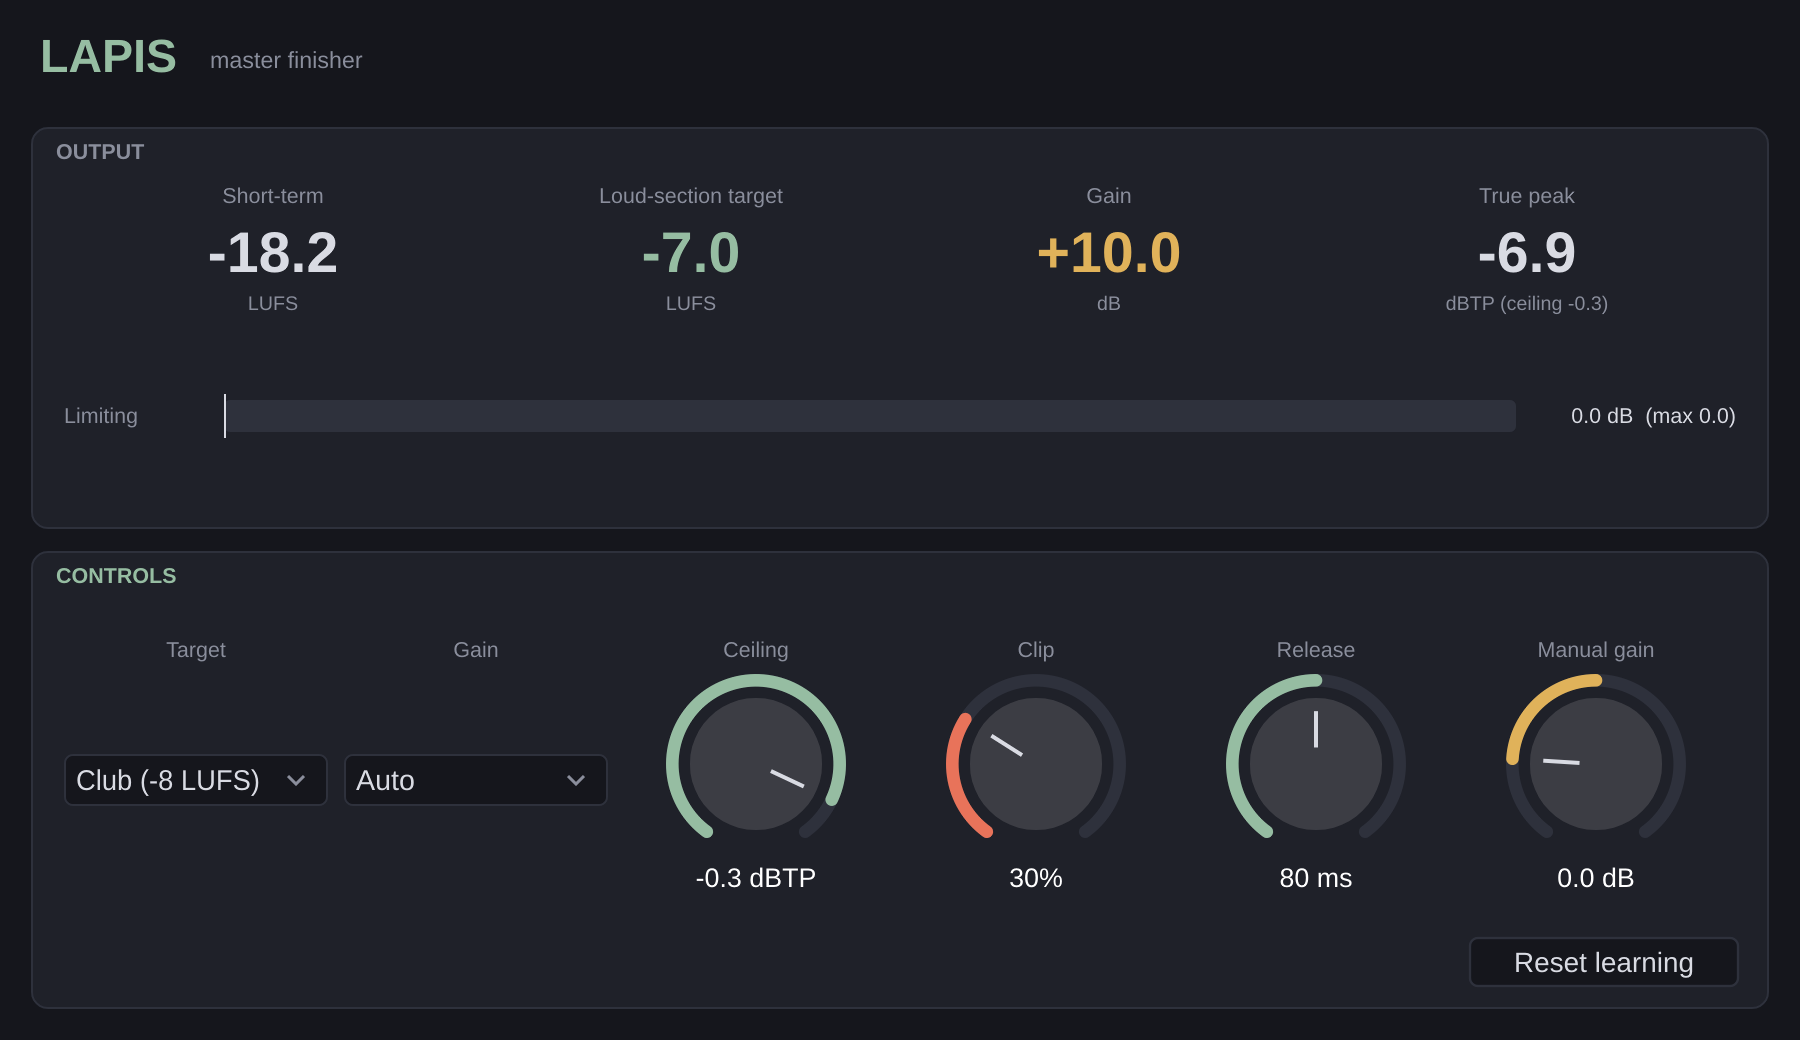
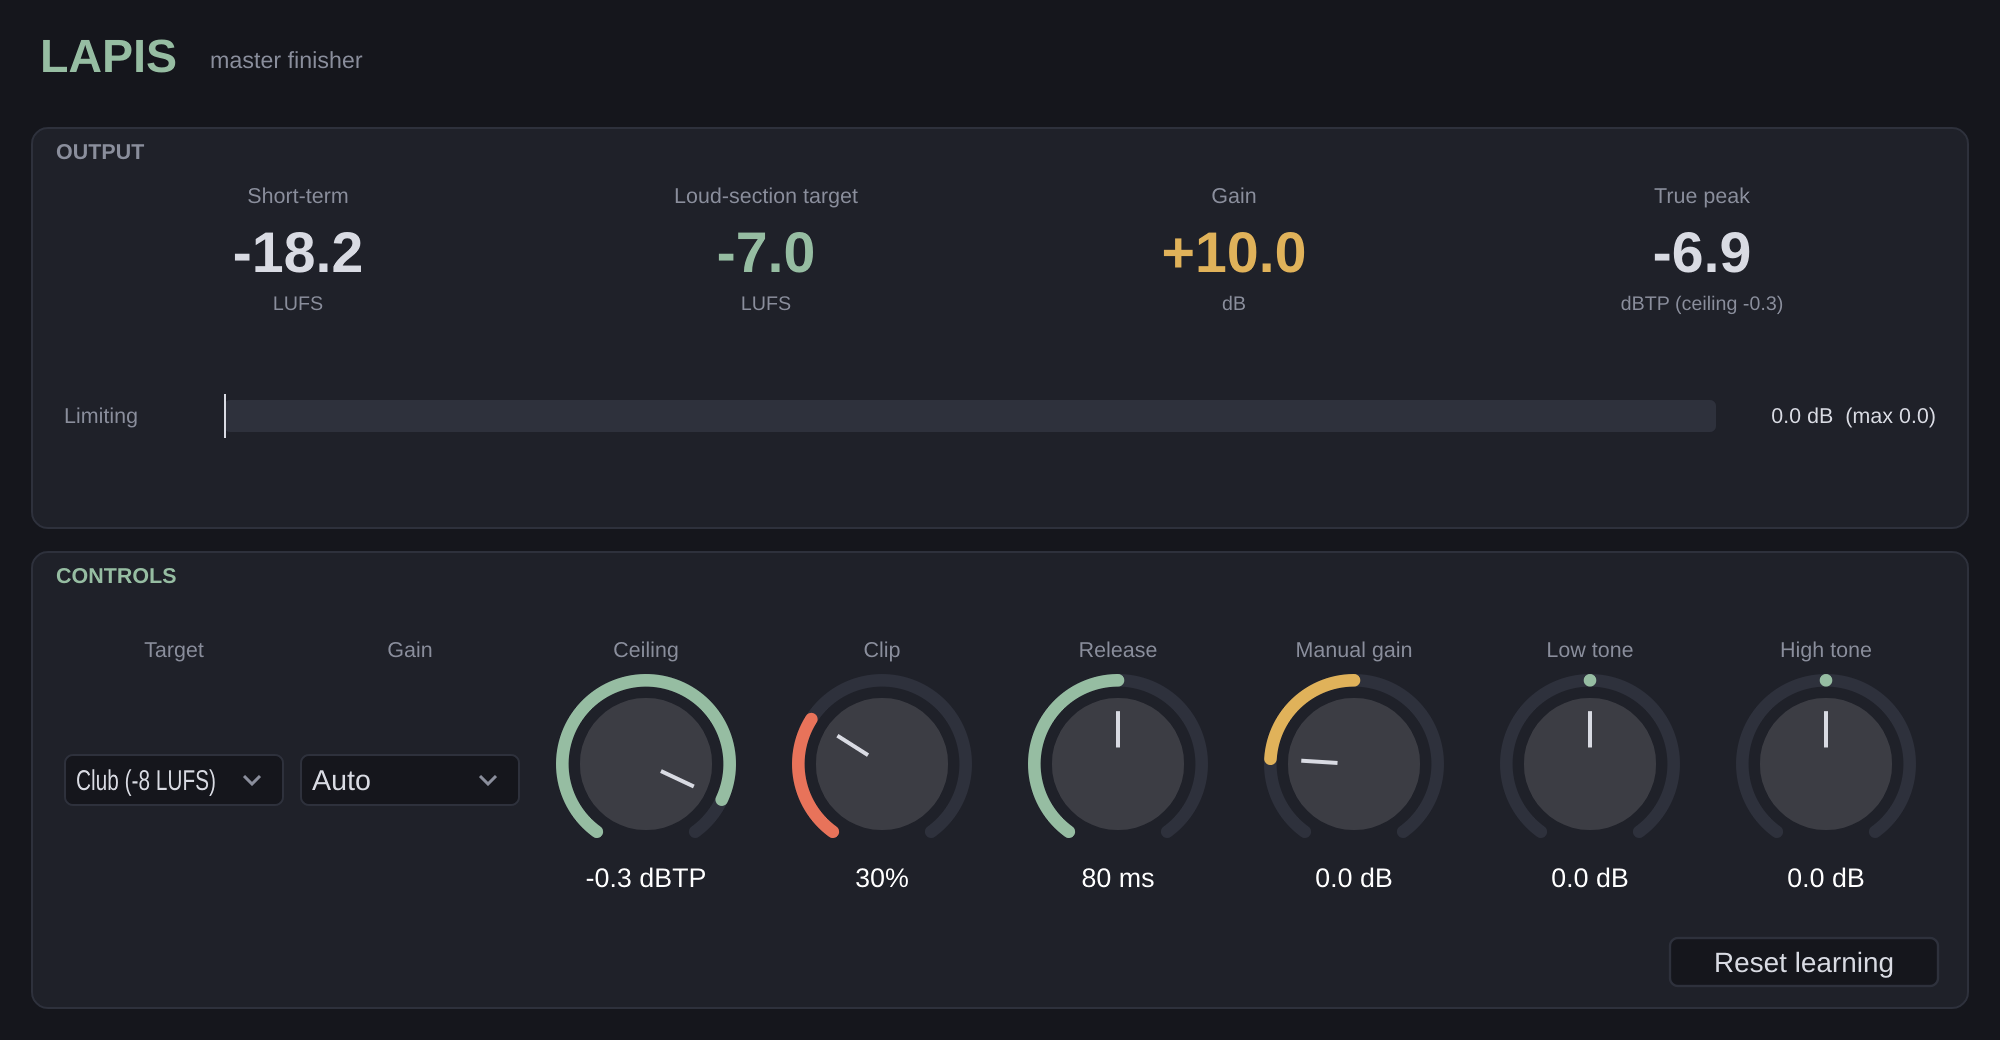
Reference match: gentle tone and loudness match to the reference
Mentalism's Match reference compares the mix's long-term balance with the
loaded reference and sends half the difference below ~150 Hz and above
~6 kHz (at most 4 dB) to Lapis, which gains Low tone / High tone shelves;
it also sets the loudness target to the reference. Fix messages can now
carry data; it's in History to undo.

Claude-Session: https://claude.ai/code/session_01EWJNqEa1W7PthaDHKK8sn4

diff --git a/plugins/Lapis/Source/PluginProcessor.cpp b/plugins/Lapis/Source/PluginProcessor.cpp
@@ -23,6 +23,8 @@ namespace
         rel.setSkewForCentre (80.0f);
         l.add (std::make_unique<AudioParameterFloat> (ParameterID { LapisProcessor::releaseId, 1 }, "Release", rel, 80.0f,
                                                       Attr().withStringFromValueFunction ([] (float v, int) { return String (roundToInt (v)) + " ms"; })));
+        l.add (std::make_unique<AudioParameterFloat> (ParameterID { LapisProcessor::toneLowId, 1 }, "Low Tone", NormalisableRange<float> (-6.0f, 6.0f), 0.0f, db));
+        l.add (std::make_unique<AudioParameterFloat> (ParameterID { LapisProcessor::toneHighId, 1 }, "High Tone", NormalisableRange<float> (-6.0f, 6.0f), 0.0f, db));
         l.add (std::make_unique<AudioParameterFloat> (ParameterID { LapisProcessor::manualGainId, 1 }, "Manual Gain",
                                                       NormalisableRange<float> (-6.0f, 24.0f), 0.0f, db));
         return l;
@@ -35,6 +37,15 @@ LapisProcessor::LapisProcessor()
                           .withOutput ("Output", juce::AudioChannelSet::stereo(), true)),
       apvts (*this, nullptr, "LapisState", layout())
 {
+    // Mentalism's "Match reference": nudge the tone shelves by the amounts it sends.
+    fixes = std::make_unique<suite::FixReceiver> (apvts, [this] (suite::Fix fix, uint32_t data) -> std::vector<suite::FixReceiver::Change>
+    {
+        if (fix != suite::Fix::ReferenceTone) return {};
+        float lowDb = 0.0f, highDb = 0.0f;
+        suite::unpackTone (data, lowDb, highDb);
+        const auto low = value (toneLowId), high = value (toneHighId);
+        return { { toneLowId, juce::jlimit (-6.0f, 6.0f, low + lowDb) }, { toneHighId, juce::jlimit (-6.0f, 6.0f, high + highDb) } };
+    });
 }
 
 bool LapisProcessor::isBusesLayoutSupported (const BusesLayout& layouts) const
@@ -47,6 +58,8 @@ void LapisProcessor::prepareToPlay (double newSampleRate, int)
 {
     sampleRate = newSampleRate;
     limiter.prepare (sampleRate);
+    for (auto* f : { &lowShelf[0], &lowShelf[1], &highShelf[0], &highShelf[1] }) f->reset();
+    shownLow = shownHigh = 1000.0f;   // recalculate the shelves for this sample rate
     setLatencySamples (limiter.getLatency());
     loudness.prepare (sampleRate);
     outputPeak.reset();
@@ -89,6 +102,16 @@ void LapisProcessor::processBlock (juce::AudioBuffer<float>& buffer, juce::MidiB
     const auto clip = value (clipId);
     const auto clipThreshold = ceiling;
 
+    // Tone shelves (only recalculated when they change; bypassed at 0 dB).
+    const auto toneLow = value (toneLowId), toneHigh = value (toneHighId);
+    if (std::abs (toneLow - shownLow) > 1.0e-3f || std::abs (toneHigh - shownHigh) > 1.0e-3f)
+    {
+        for (auto& f : lowShelf) f.setLowShelf (100.0f, toneLow, (float) sampleRate);
+        for (auto& f : highShelf) f.setHighShelf (8000.0f, toneHigh, (float) sampleRate);
+        shownLow = toneLow; shownHigh = toneHigh;
+    }
+    const auto toneOn = std::abs (toneLow) > 0.01f || std::abs (toneHigh) > 0.01f;
+
     auto* L = buffer.getWritePointer (0);
     auto* R = buffer.getWritePointer (1);
     float maxGr = 0.0f;
@@ -99,6 +122,11 @@ void LapisProcessor::processBlock (juce::AudioBuffer<float>& buffer, juce::MidiB
         appliedGainDb += 0.0005f * (wantedGainDb - appliedGainDb);
         const auto g = juce::Decibels::decibelsToGain (appliedGainDb);
         auto l = L[n] * g, r = R[n] * g;
+        if (toneOn)
+        {
+            l = highShelf[0].process (lowShelf[0].process (l));
+            r = highShelf[1].process (lowShelf[1].process (r));
+        }
 
         // Soft clipper: shaves the sharpest peaks so the limiter works less hard.
         if (clip > 0.0f)

diff --git a/plugins/Mentalism/Source/PluginEditor.cpp b/plugins/Mentalism/Source/PluginEditor.cpp
@@ -163,6 +163,17 @@ MentalismEditor::MentalismEditor (MentalismProcessor& p)
         juce::CallOutBox::launchAsynchronously (std::make_unique<ChecklistPanel> (processor), checklistButton.getScreenBounds(), nullptr);
     };
     addAndMakeVisible (checklistButton);
+    matchButton.setTooltip ("Moves Lapis' low and high tone half-way towards the reference (at most 4 dB) and sets the loudness "
+                            "target to match it. Undo it in History.");
+    matchButton.onClick = [this]
+    {
+        matchSeq = processor.matchReference();
+        const auto l = processor.lastMatchLow.load(), h = processor.lastMatchHigh.load();
+        auto fmt = [] (float v) { return (v >= 0.0f ? "+" : "") + juce::String (v, 1); };
+        matchButton.setButtonText (matchSeq != 0 ? "Matched: low " + fmt (l) + ", high " + fmt (h) + " dB"
+                                   : processor.getReference().valid ? juce::String ("Tone already close; loudness matched")
+                                                                    : juce::String ("Load a reference first"));
+    };
     roughStatus.setFont (juce::FontOptions (12.0f));
     roughStatus.setJustificationType (juce::Justification::centredRight);
     for (auto* c : std::initializer_list<juce::Component*> { &roughMixButton, &roughUndoButton, &roughStatus })
@@ -183,12 +194,12 @@ MentalismEditor::MentalismEditor (MentalismProcessor& p)
     referenceLabel.setFont (juce::FontOptions (12.0f));
     referenceLabel.setJustificationType (juce::Justification::centredLeft);
 
-    for (auto* c : std::initializer_list<juce::Component*> { &loudTarget, &tonalTarget, &resetButton, &loadButton, &referenceLabel, &balanceTabs })
+    for (auto* c : std::initializer_list<juce::Component*> { &loudTarget, &tonalTarget, &resetButton, &loadButton, &referenceLabel, &balanceTabs, &matchButton })
         addAndMakeVisible (c);
     balanceTabs.setComponentID ("tabs");
     balanceTabs.onChange = [this] (int i)
     {
-        for (auto* c : std::initializer_list<juce::Component*> { &tonalTarget, &loadButton, &referenceLabel })
+        for (auto* c : std::initializer_list<juce::Component*> { &tonalTarget, &loadButton, &referenceLabel, &matchButton })
             c->setVisible (i == 0);
         undoFixButton.setVisible (i == 1);
         fixStatus.setVisible (i == 1);
@@ -598,6 +609,7 @@ void MentalismEditor::resized()
     auto controls = b.removeFromTop (54);
     tonalTarget.setBounds (controls.removeFromLeft (220));
     loadButton.setBounds (controls.removeFromLeft (150).withTrimmedTop (18).reduced (4, 2));
+    matchButton.setBounds (controls.removeFromLeft (230).withTrimmedTop (18).reduced (4, 2));
     referenceLabel.setBounds (controls.withTrimmedTop (18).withTrimmedLeft (8));
     b.removeFromTop (6);
     balanceContent = b;

diff --git a/shared/FixBus.h b/shared/FixBus.h
@@ -14,12 +14,25 @@
 
 namespace suite
 {
-    enum class Fix : uint8_t { None = 0, BreakdownQuieter, BreakdownLouder, BuildRise, IntroQuieter, LaterDropBigger, RoughMix, DjIntroOutro };
+    enum class Fix : uint8_t { None = 0, BreakdownQuieter, BreakdownLouder, BuildRise, IntroQuieter, LaterDropBigger, RoughMix, DjIntroOutro, ReferenceTone };
+
+    /** ReferenceTone carries two signed amounts in quarter dB (low shelf, high shelf). */
+    inline uint32_t packTone (float lowDb, float highDb) noexcept
+    {
+        auto q = [] (float db) { return (uint32_t) (uint8_t) (int8_t) juce::jlimit (-127, 127, (int) std::lround (db * 4.0f)); };
+        return (q (lowDb) << 8) | q (highDb);
+    }
+    inline void unpackTone (uint32_t arg, float& lowDb, float& highDb) noexcept
+    {
+        lowDb = (float) (int8_t) (uint8_t) ((arg >> 8) & 0xff) / 4.0f;
+        highDb = (float) (int8_t) (uint8_t) (arg & 0xff) / 4.0f;
+    }
 
     namespace FixBus
     {
         /** Sender: returns the message's sequence number. */
         uint32_t send (Fix fix) noexcept;
+        uint32_t send (Fix fix, uint32_t arg) noexcept;   // with 16 bits of data (e.g. packTone)
         uint32_t sendUndo (uint32_t fixSeq) noexcept;
         /** How many plugins applied (or undid) message `seq`. */
         int acknowledgements (uint32_t seq) noexcept;
@@ -38,8 +51,12 @@ namespace suite
     public:
         struct Change { juce::String paramId; float plainValue; };
         using Planner = std::function<std::vector<Change> (Fix)>;
+        using DataPlanner = std::function<std::vector<Change> (Fix, uint32_t data)>;
 
         FixReceiver (juce::AudioProcessorValueTreeState& state, Planner planner)
+            : FixReceiver (state, DataPlanner ([p = std::move (planner)] (Fix f, uint32_t) { return p (f); })) {}
+
+        FixReceiver (juce::AudioProcessorValueTreeState& state, DataPlanner planner)
             : apvts (state), plan (std::move (planner)), lastSeen (FixBus::latest())
         {
             startTimerHz (5);
@@ -81,7 +98,7 @@ namespace suite
 
         void apply (const FixBus::Message& m)
         {
-            const auto changes = plan (m.fix);
+            const auto changes = plan (m.fix, m.target);
             if (changes.empty())
                 return;
             Entry entry { m.seq, {} };
@@ -122,7 +139,7 @@ namespace suite
         }
 
         juce::AudioProcessorValueTreeState& apvts;
-        Planner plan;
+        DataPlanner plan;
         uint32_t lastSeen = 0;
         std::vector<Entry> history;
         int applied = 0;

diff --git a/plugins/Lapis/Tests.cpp b/plugins/Lapis/Tests.cpp
@@ -118,6 +118,38 @@ int main (int argc, char** argv)
                                                                          + juce::String (gainAfterDrop, 1) + " -> " + juce::String (gainAfterBreakdown, 1) + " dB)");
     }
 
+    section ("Tone shelves (reference match)");
+    {
+        suite::FixBus::reset();
+        auto p = make (1);
+        set (*p, LapisProcessor::modeId, (float) LapisProcessor::Manual);
+        set (*p, LapisProcessor::manualGainId, 0.0f);
+        auto levelAt = [&p] (float hz)
+        {
+            juce::AudioBuffer<float> out;
+            render (*p, 1.0, [hz] (juce::AudioBuffer<float>& b, int64_t pos)
+            {
+                for (int i = 0; i < b.getNumSamples(); ++i)
+                {
+                    const auto v = 0.05f * (float) std::sin (juce::MathConstants<double>::twoPi * hz * (double) (pos + i) / sampleRate);
+                    b.setSample (0, i, v); b.setSample (1, i, v);
+                }
+            }, &out);
+            return juce::Decibels::gainToDecibels (rmsBetween (out, 0.5, 1.0));
+        };
+        const auto low0 = levelAt (40.0f), high0 = levelAt (14000.0f), mid0 = levelAt (1000.0f);
+        const auto seq = suite::FixBus::send (suite::Fix::ReferenceTone, suite::packTone (2.0f, -1.5f));
+        p->fixes->poll();
+        check (std::abs (p->apvts.getRawParameterValue (LapisProcessor::toneLowId)->load() - 2.0f) < 0.01f
+                   && std::abs (p->apvts.getRawParameterValue (LapisProcessor::toneHighId)->load() + 1.5f) < 0.01f, "Mentalism's amounts land on the shelves");
+        const auto low1 = levelAt (40.0f), high1 = levelAt (14000.0f), mid1 = levelAt (1000.0f);
+        check (std::abs ((low1 - low0) - 2.0f) < 0.4f && std::abs ((high1 - high0) + 1.5f) < 0.4f && std::abs (mid1 - mid0) < 0.3f,
+               "40 Hz up " + juce::String (low1 - low0, 2) + " dB, 14 kHz down " + juce::String (high0 - high1, 2) + " dB, 1 kHz untouched");
+        suite::FixBus::sendUndo (seq);
+        p->fixes->poll();
+        check (std::abs (p->apvts.getRawParameterValue (LapisProcessor::toneLowId)->load()) < 0.01f, "undo flattens them again");
+    }
+
     section ("Follows Mentalism's target");
     {
         auto p = make (LapisProcessor::followMentalism);

diff --git a/plugins/Mentalism/Tests.cpp b/plugins/Mentalism/Tests.cpp
@@ -350,6 +350,34 @@ int main (int argc, char** argv)
                "sets the style's loudness target (streaming for a radio edit)");
     }
 
+    section ("Match reference");
+    {
+        suite::FixBus::reset();
+        auto p = make();
+        check (p->matchReference() == 0, "nothing to match without a reference");
+        juce::Random rng (5);
+        render (*p, 12.0, [&rng] (juce::AudioBuffer<float>& b, int64_t)
+        {
+            for (int i = 0; i < b.getNumSamples(); ++i) { const auto v = 0.2f * (rng.nextFloat() * 2.0f - 1.0f); b.setSample (0, i, v); b.setSample (1, i, v); }
+        });
+        ReferenceProfile ref;
+        ref.valid = true; ref.name = "Brighter, leaner"; ref.lufs = -8.0f;
+        for (size_t b = 0; b < (size_t) analysis::numBands; ++b) ref.bands[b] = p->bands.longDb[b].load();
+        for (size_t b : { (size_t) 0, (size_t) 1, (size_t) 2 }) ref.bands[b] -= 2.0f;   // the reference has less low end
+        for (size_t b : { (size_t) 8, (size_t) 9 }) ref.bands[b] += 4.0f;               // ... and more top
+        p->setReference (ref);
+        const auto seq = p->matchReference();
+        const auto lo = p->lastMatchLow.load(), hi = p->lastMatchHigh.load();
+        check (seq != 0 && lo < -0.5f && lo > -1.5f && hi > 1.5f && hi < 2.5f,
+               "moves half-way: less low, more top (" + juce::String (lo, 2) + " / +" + juce::String (hi, 2) + " dB)");
+        check ((int) p->apvts.getRawParameterValue (Params::loudnessTarget)->load() == advisor::matchReferenceIndex, "and aims the loudness at the reference");
+        float l = 0, h = 0;
+        suite::FixBus::Message m;
+        check (suite::FixBus::read (seq, m) && m.fix == suite::Fix::ReferenceTone && (suite::unpackTone (m.target, l, h), std::abs (l - lo) < 0.01f && std::abs (h - hi) < 0.01f),
+               "the amounts travel with the fix");
+        check (p->getFixHistory().back().fix == suite::Fix::ReferenceTone, "and it's in the history, to undo");
+    }
+
     section ("Versions");
     {
         auto p = make();

diff --git a/plugins/Lapis/Source/PluginEditor.cpp b/plugins/Lapis/Source/PluginEditor.cpp
@@ -11,15 +11,17 @@ LapisEditor::LapisEditor (LapisProcessor& p)
       ceiling (p.apvts, LapisProcessor::ceilingId, "Ceiling", accent),
       clip (p.apvts, LapisProcessor::clipId, "Clip", Colours::ember),
       release (p.apvts, LapisProcessor::releaseId, "Release", accent),
-      manualGain (p.apvts, LapisProcessor::manualGainId, "Manual gain", Colours::brass)
+      manualGain (p.apvts, LapisProcessor::manualGainId, "Manual gain", Colours::brass),
+      toneLow (p.apvts, LapisProcessor::toneLowId, "Low tone", accent),
+      toneHigh (p.apvts, LapisProcessor::toneHighId, "High tone", accent)
 {
     setLookAndFeel (&lnf);
     resetButton.onClick = [this] { processor.resetLearning(); };
     status.setFont (juce::FontOptions (13.0f));
     status.setJustificationType (juce::Justification::centredLeft);
-    for (auto* c : std::initializer_list<juce::Component*> { &target, &mode, &ceiling, &clip, &release, &manualGain, &resetButton, &status })
+    for (auto* c : std::initializer_list<juce::Component*> { &target, &mode, &ceiling, &clip, &release, &manualGain, &toneLow, &toneHigh, &resetButton, &status })
         addAndMakeVisible (c);
-    setSize (900, 520);
+    setSize (1000, 520);
     startTimerHz (20);
 }
 
@@ -117,5 +119,5 @@ void LapisEditor::resized()
     auto statusRow = c.removeFromBottom (30);
     resetButton.setBounds (statusRow.removeFromRight (140).reduced (2));
     status.setBounds (statusRow);
-    layoutRow (c, { &target, &mode, &ceiling, &clip, &release, &manualGain });
+    layoutRow (c, { &target, &mode, &ceiling, &clip, &release, &manualGain, &toneLow, &toneHigh });
 }

diff --git a/plugins/Lapis/Source/PluginProcessor.h b/plugins/Lapis/Source/PluginProcessor.h
@@ -5,6 +5,8 @@
 #include "Limiter.h"
 #include "Analysis.h"
 #include "TargetBus.h"
+#include "FixBus.h"
+#include "SuiteDSP.h"
 
 class LapisProcessor : public suite::SuiteProcessor
 {
@@ -38,7 +40,8 @@ public:
 
     // Parameters
     static inline const juce::String targetId { "target" }, modeId { "mode" }, ceilingId { "ceiling" }, clipId { "clip" },
-                                     releaseId { "release" }, manualGainId { "manualgain" };
+                                     releaseId { "release" }, manualGainId { "manualgain" },
+                                     toneLowId { "tone_low" }, toneHighId { "tone_high" };   // gentle shelves (100 Hz / 8 kHz); Mentalism's reference match sets them
     enum Mode { Auto = 0, Hold, Manual };
     static constexpr int followMentalism = 0;
     static float targetLufsFor (int index) { static const float t[] = { -8.0f, -8.0f, -6.0f, -14.0f }; return t[juce::jlimit (0, 3, index)]; }
@@ -66,11 +69,14 @@ public:
     analysis::TruePeakMeter outputPeak;
 
     juce::AudioProcessorValueTreeState apvts;
+    std::unique_ptr<suite::FixReceiver> fixes;   // Mentalism's reference match
 
 private:
     float value (const juce::String& id) const { return apvts.getRawParameterValue (id)->load(); }
 
     LookaheadLimiter limiter;
+    std::array<suite::Biquad, 2> lowShelf, highShelf;
+    float shownLow = 1000.0f, shownHigh = 1000.0f;
     analysis::LoudnessMeter loudness;
     std::atomic<float> learnedGainDb { 0.0f };
     std::atomic<bool> resetRequested { false };

diff --git a/plugins/Mentalism/Source/PluginProcessor.h b/plugins/Mentalism/Source/PluginProcessor.h
@@ -102,14 +102,21 @@ public:
         return true;
     }
 
+    /** Reference match: half the difference from the loaded reference at the low end (below
+        ~150 Hz) and the top (above ~6 kHz), at most 4 dB each, sent to Lapis' tone shelves; and
+        the loudness target set to match the reference. Needs a reference and 10 s of the song.
+        Returns the fix's sequence number (0 if there's nothing to go on). */
+    uint32_t matchReference();
+    std::atomic<float> lastMatchLow { 0.0f }, lastMatchHigh { 0.0f };
+
     /** Samples at full scale since the last Reset (for the pre-export checklist). */
     std::atomic<int> clippedSamples { 0 };
 
     /** Fix history (fixes and rough mixes sent from here), newest last. */
     struct FixRecord { uint32_t seq = 0; suite::Fix fix = suite::Fix::None; juce::Time when; uint32_t undoSeq = 0; };
-    uint32_t sendFix (suite::Fix fix)
+    uint32_t sendFix (suite::Fix fix, uint32_t data = 0)
     {
-        const auto seq = suite::FixBus::send (fix);
+        const auto seq = data != 0 ? suite::FixBus::send (fix, data) : suite::FixBus::send (fix);
         const juce::ScopedLock sl (historyLock);
         fixHistory.push_back ({ seq, fix, juce::Time::getCurrentTime(), 0 });
         if (fixHistory.size() > 16) fixHistory.erase (fixHistory.begin());

diff --git a/plugins/Mentalism/Source/PluginProcessor.cpp b/plugins/Mentalism/Source/PluginProcessor.cpp
@@ -206,6 +206,25 @@ void MentalismProcessor::setReference (const ReferenceProfile& p)
     reference = p;
 }
 
+uint32_t MentalismProcessor::matchReference()
+{
+    const auto ref = getReference();
+    if (! ref.valid || bands.longSeconds.load() < 10.0f)
+        return 0;
+    advisor::Bands now {};
+    for (size_t b = 0; b < (size_t) analysis::numBands; ++b) now[b] = bands.longDb[b].load();
+    const auto diff = advisor::difference (now, ref.bands);   // + = we have more than the reference
+    const auto low = (diff[0] + diff[1] + diff[2]) / 3.0f, high = (diff[8] + diff[9]) / 2.0f;
+    auto correction = [] (float d) { return juce::jlimit (-4.0f, 4.0f, std::round (-0.5f * d * 4.0f) / 4.0f); };
+    const auto cl = correction (low), ch = correction (high);
+    lastMatchLow.store (cl);
+    lastMatchHigh.store (ch);
+    setParameterPlain (apvts, Params::loudnessTarget, (float) advisor::matchReferenceIndex);
+    if (std::abs (cl) < 0.25f && std::abs (ch) < 0.25f)
+        return 0;
+    return sendFix (suite::Fix::ReferenceTone, suite::packTone (cl, ch));
+}
+
 MentalismProcessor::Report MentalismProcessor::report() const
 {
     Report rep;

diff --git a/plugins/Mentalism/Source/PluginEditor.h b/plugins/Mentalism/Source/PluginEditor.h
@@ -75,7 +75,9 @@ private:
     suite::ui::LookAndFeel lnf;
 
     suite::ui::Choice loudTarget, tonalTarget;
-    juce::TextButton resetButton { "Reset" }, loadButton { "Load reference..." }, roughMixButton { "Rough mix" }, roughUndoButton { "Undo" }, historyButton { "History" }, checklistButton { "Export checklist" };
+    juce::TextButton resetButton { "Reset" }, loadButton { "Load reference..." }, roughMixButton { "Rough mix" }, roughUndoButton { "Undo" }, historyButton { "History" }, checklistButton { "Export checklist" },
+                     matchButton { "Match reference" };
+    uint32_t matchSeq = 0;
     juce::Label roughStatus;
     juce::Label referenceLabel;
     std::unique_ptr<juce::FileChooser> chooser;

diff --git a/plugins/Mentalism/Source/Coach.h b/plugins/Mentalism/Source/Coach.h
@@ -139,6 +139,7 @@ namespace coach
             case suite::Fix::LaterDropBigger:  return "Prima Materia: Drop 2+ 1.5 dB up; Azoth: bigger later drops";
             case suite::Fix::RoughMix:         return "Prima Materia: each track's trim set for its role, relative to the kick";
             case suite::Fix::DjIntroOutro:     return "Prima Materia: pads, leads and vocals out of the intro and outro";
+            case suite::Fix::ReferenceTone:    return "Lapis: low and high tone moved towards the reference";
             case suite::Fix::None:
             default:                           return {};
         }

diff --git a/shared/FixBus.cpp b/shared/FixBus.cpp
@@ -14,6 +14,7 @@ namespace suite::FixBus
     }
 
     uint32_t send (Fix fix) noexcept { return ring().post (pack (false, fix, 0)); }
+    uint32_t send (Fix fix, uint32_t arg) noexcept { return ring().post (pack (false, fix, arg)); }
     uint32_t sendUndo (uint32_t fixSeq) noexcept { return ring().post (pack (true, Fix::None, fixSeq)); }
     uint32_t latest() noexcept { return ring().latest(); }
     void acknowledge (uint32_t seq) noexcept { ring().acknowledge (seq); }
